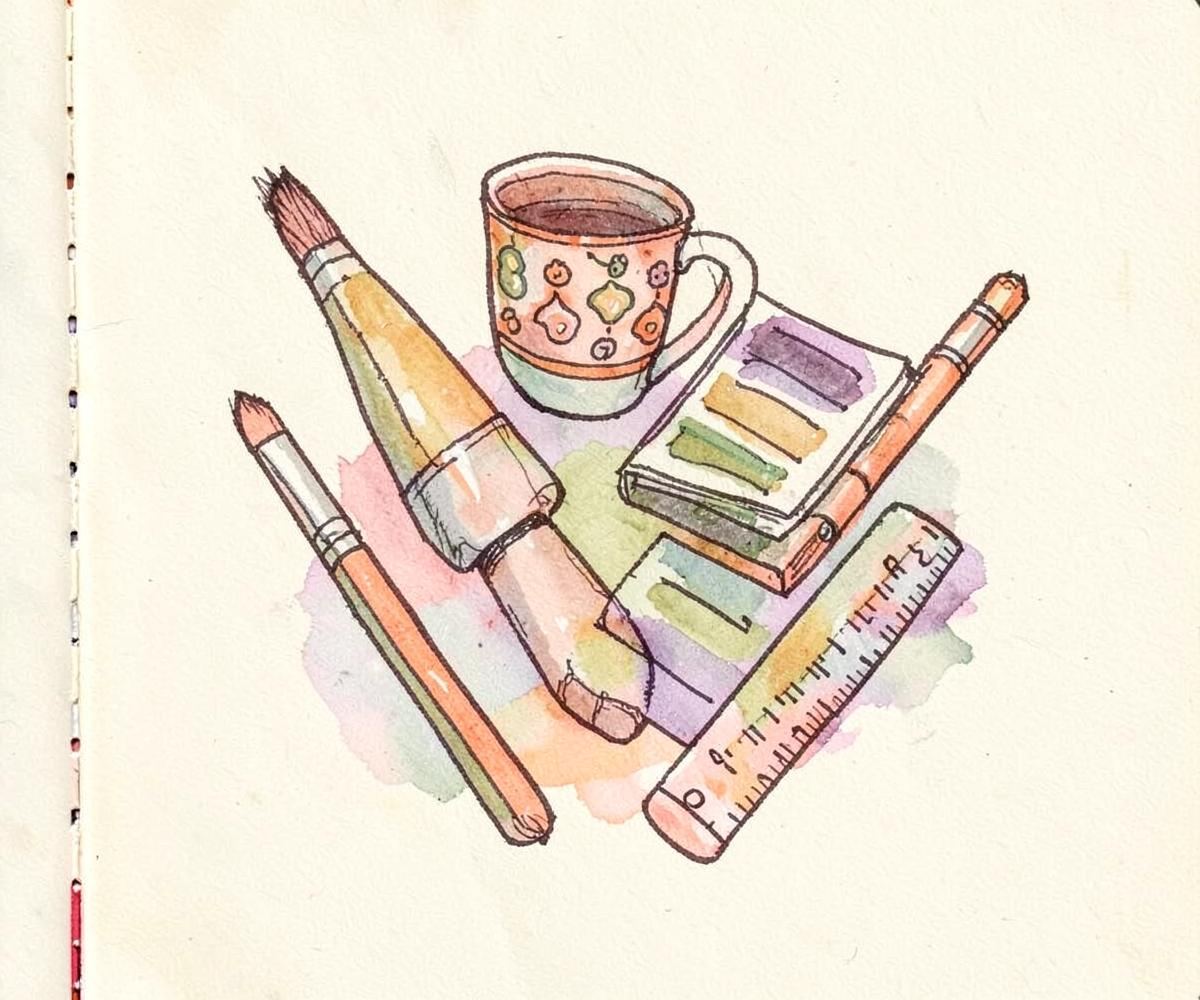
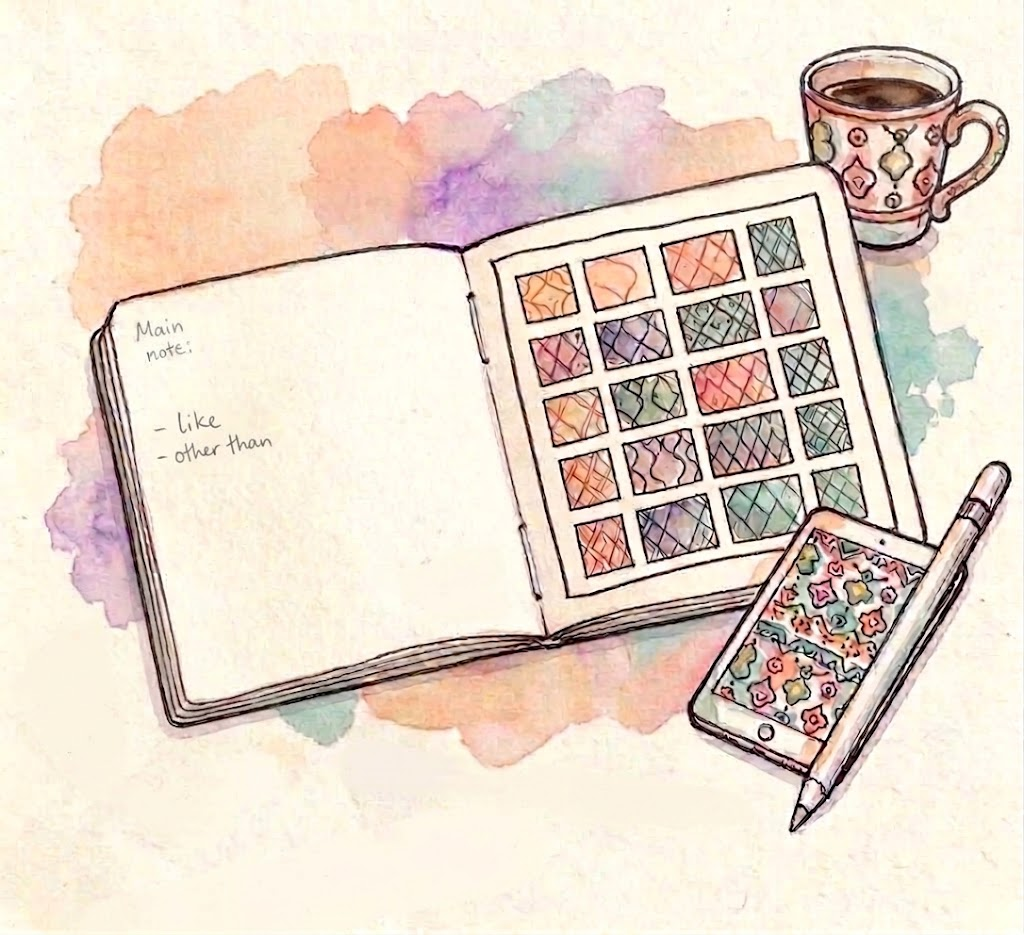
Replace the homepage hero illustration
New artwork: an open notebook with pattern swatches, a mug of coffee,
and a tablet mid-pattern-design.

Claude-Session: https://claude.ai/code/session_01VHQYNvbsyLAtKZNN89wX6x

diff --git a/index.html b/index.html
@@ -62,7 +62,7 @@
         <span class="aside-note">no account, no faff ✧</span>
       </div>
     </div>
-    <img class="hero-illustration wiggle" src="assets/collection-hero.jpg" width="1200" height="1000" alt="Hand-drawn brushes, a patterned mug, a ruler and a paint palette in watercolour" />
+    <img class="hero-illustration wiggle" src="assets/collection-hero.jpg" width="1024" height="935" alt="Watercolour sketch of an open notebook with pattern swatches, a mug of coffee, and a tablet and stylus mid-pattern-design" />
   </section>
 
   <section id="the-apps" class="collection">
